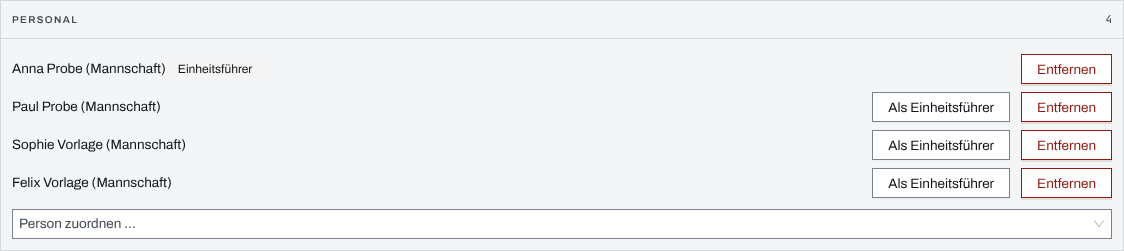
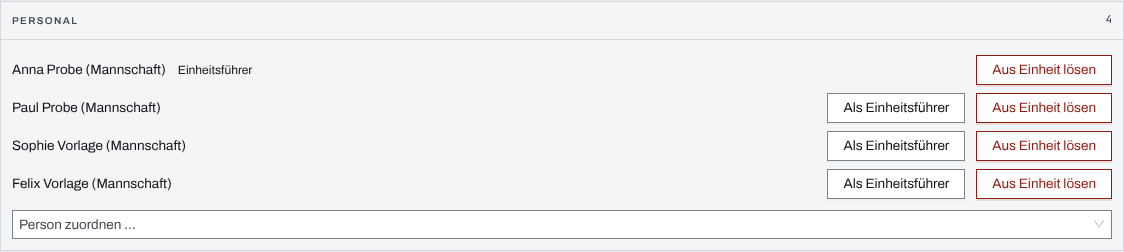
docs(anwender): Kapitel Einheiten für die Einheit-Ansicht
Neue Abläufe „Angaben einer Einheit ändern“ und „Das taktische Zeichen setzen“, „Eine Einheit
auflösen“ über das letzte Paneel, „Aus Einheit lösen“ statt „Entfernen“. Hintergrund zu
Einheitsführer und Stärke-Position, jeder Angabe für sich und dem Zeichen ohne Tagebuch.
Bilder kopf.png und zeichen.png neu, personal.png neu aufgenommen (hell und dunkel).

Zunder: https://zunder.rubeen.dev/#/aufgabe/t2q79fbg77fpngy8rwngsek6

Claude-Session: https://claude.ai/code/session_01DDFgqKuDE2TAXVLAHHoUGt

diff --git a/frontend/e2e/doku-bilder/einheiten.bilder.ts b/frontend/e2e/doku-bilder/einheiten.bilder.ts
@@ -23,6 +23,10 @@ import {
  *   vorlage-bilden.png  frontend/src/pages/EinheitAusVorlagePage.tsx (Seite „Einheit aus Vorlage
  *                       bilden“: Kopf, Baum der Vorlage, Aktion mit Zusammenfassung;
  *                       frontend/src/components/Erfassung.tsx)
+ *   kopf.png            frontend/src/pages/einheit/EinheitKopf.tsx (Paneel „Kopfdaten“,
+ *                       frontend/src/kraefte/EinheitZeichen.tsx, components/InlineAngabe.tsx)
+ *   zeichen.png         frontend/src/pages/einheit/EinheitZeichenPaneel.tsx (Paneel „Taktisches
+ *                       Zeichen“ mit offener Zeile „Organisation“)
  *   personal.png        frontend/src/pages/EinheitDetailPage.tsx (Paneel „Personal“)
  *   aufgeloest.png      frontend/src/kraefte/EntlassenBlock.tsx (Block unter der Gliederung)
  *
@@ -145,6 +149,37 @@ test.describe(KAPITEL, () => {
     const paneel = page.getByRole('region', { name: 'Personal' });
     await expect(paneel.getByText('Einheitsführer', { exact: true })).toBeVisible();
     await fotografiere(paneel, KAPITEL, 'personal');
+  });
+
+  test('Kopf einer Einheit', async ({ page }) => {
+    await anmelden(page);
+    const demo = await demoEinsatz(page);
+    const rettung = await einheitNamens(page.request, demo.id, 'Rettungsstaffel');
+    await uhrAnhalten(page);
+    await page.goto(`/einsaetze/${demo.id}/einheiten/${rettung.id}`);
+    const paneel = page.getByRole('region', { name: 'Kopfdaten' });
+    await expect(
+      paneel.getByRole('button', { name: 'Einheitsführer bearbeiten' }),
+    ).toHaveAccessibleDescription('Anna Probe');
+    await page.mouse.move(0, 0);
+    await fotografiere(paneel, KAPITEL, 'kopf');
+  });
+
+  // Die Zeile bleibt offen und wird nicht gespeichert: ein gespeichertes Zeichen änderte das Bild
+  // der Gliederung.
+  test('Taktisches Zeichen setzen', async ({ page }) => {
+    await anmelden(page);
+    const demo = await demoEinsatz(page);
+    const rettung = await einheitNamens(page.request, demo.id, 'Rettungsstaffel');
+    await uhrAnhalten(page);
+    await page.goto(`/einsaetze/${demo.id}/einheiten/${rettung.id}`);
+    const paneel = page.getByRole('region', { name: 'Taktisches Zeichen' });
+    await paneel.getByRole('button', { name: /^Organisation (bearbeiten|eintragen)$/ }).click();
+    const auswahl = paneel.getByRole('combobox', { name: 'Organisation' });
+    await waehleIn(auswahl, 'Feuerwehr');
+    await auswahl.blur();
+    await page.mouse.move(0, 0);
+    await fotografiere(paneel, KAPITEL, 'zeichen');
   });
 
   test('Block „Aufgelöst“', async ({ page }) => {

diff --git a/docs/anwender/kapitel/einheiten.md b/docs/anwender/kapitel/einheiten.md
@@ -2,7 +2,7 @@
 titel: Einheiten
 gruppen: [fuehrung]
 reihenfolge: 310
-quellen: [frontend/src/pages/EinheitenPage.tsx, frontend/src/pages/EinheitAusVorlagePage.tsx, frontend/src/einheit/ausVorlageKern.ts, frontend/src/pages/KraefteuebersichtPage.tsx, frontend/src/kraefte/einheitenGliederung.ts, frontend/src/kraefte/kraeftebaumKern.ts, frontend/src/pages/EinheitDetailPage.tsx, frontend/src/kraefte/EntlassenBlock.tsx, frontend/src/kraefte/KraftZeitachse.tsx, frontend/src/einsatz/schreibrecht.ts, src/routes/einsatz_einheit.rs, src/einheit/mod.rs, src/einheit/repo.rs, src/einheit/mitglied_repo.rs, src/einheit/aus_vorlage.rs]
+quellen: [frontend/src/pages/EinheitenPage.tsx, frontend/src/pages/EinheitAusVorlagePage.tsx, frontend/src/einheit/ausVorlageKern.ts, frontend/src/pages/KraefteuebersichtPage.tsx, frontend/src/kraefte/einheitenGliederung.ts, frontend/src/kraefte/kraeftebaumKern.ts, frontend/src/pages/EinheitDetailPage.tsx, frontend/src/pages/einheit/, frontend/src/kraefte/EntlassenBlock.tsx, frontend/src/kraefte/KraftZeitachse.tsx, frontend/src/einsatz/schreibrecht.ts, src/routes/einsatz_einheit.rs, src/einheit/mod.rs, src/einheit/repo.rs, src/einheit/mitglied_repo.rs, src/einheit/aus_vorlage.rs]
 ---
 
 ## Überblick
@@ -12,10 +12,12 @@ eine Staffel oder einen Trupp. Einheiten lassen sich einander unterstellen und e
 Einsatzabschnitt zuordnen. Ihre Ist-Stärke ergibt sich aus dem zugeordneten Personal, die
 Soll-Stärke trägt die Führung ein.
 
-Das Modul zeigt die Gliederung aller Einheiten; jede Einheit hat eine eigene Seite mit Kopfdaten,
-Zeitachse und den Paneelen „Personal“, „Fahrzeuge“ und „Material“. Eine stehende Einheit wie ein
-Sanitätszug lässt sich in einem Zug aus ihrer Einheiten-Vorlage bilden, samt Untereinheiten,
-Fahrzeugen und Besatzung. Bilden, ändern und zuordnen dürfen Einsatzleitung und Führungspersonal.
+Das Modul zeigt die Gliederung aller Einheiten; jede Einheit hat eine eigene Seite mit den
+Paneelen „Kopfdaten“, „Personal“, „Fahrzeuge“, „Zeitachse“, „Material“, „Funk und
+Kommunikation“ und „Taktisches Zeichen“, zuletzt „Einheit auflösen“. Jede Angabe wird an ihrem
+Wert geändert. Eine stehende Einheit wie ein Sanitätszug lässt sich in einem Zug aus ihrer
+Einheiten-Vorlage bilden, samt Untereinheiten, Fahrzeugen und Besatzung. Bilden, ändern und
+zuordnen dürfen Einsatzleitung und Führungspersonal.
 
 ## Abläufe
 
@@ -62,17 +64,40 @@ Für Einsatzleitung und Führungspersonal:
    3 Fahrzeuge, 2 Kräfte“. Die App öffnet das Meldebild mit der neuen Einheit markiert, ihre
    Untereinheiten und Fahrzeuge aufgeklappt.
 
-### Die Kopfdaten einer Einheit pflegen
+### Angaben einer Einheit ändern
 
 Für Einsatzleitung und Führungspersonal:
 
 1. Die Einheit öffnen.
-2. Im Paneel „Kopfdaten“ „Name“, „Typ“, „Abschnitt“ und „Über-Einheit“ setzen.
-3. Unter „Soll-Stärke (F/UF/M)“ Führer, Unterführer und Mannschaft eintragen. Daneben stehen die
-   Ist-Stärke und die kumulierte Ist-Stärke samt unterstellter Einheiten.
-4. Unter „Funk / Kommunikation“ bei Bedarf „Funkrufname“, „Sprechgruppen“, „Kommunikationsmittel“,
-   „Erreichbarkeit / Nummer“ und „Bemerkung“ eintragen.
-5. „Speichern“ wählen.
+2. Im Paneel „Kopfdaten“ den Wert der Angabe wählen, etwa „Name“. Eine leere Angabe steht als
+   Aufforderung da, etwa „Funkrufname eintragen“.
+
+   ![Paneel „Kopfdaten“ der Rettungsstaffel mit großem taktischem Zeichen, Name, Typ, Über-Einheit „Sanitätszug Musterstadt“, Einheitsführerin Anna Probe, Soll- und Ist-Stärke und Status](../bilder/einheiten/kopf.png)
+
+3. Den neuen Wert eingeben oder wählen und mit „Speichern“ oder Enter übernehmen. „Abbrechen“
+   oder Escape lässt den alten Wert stehen. In „Bemerkung“ bricht Enter die Zeile um; übernommen
+   wird mit Strg+Enter oder „Speichern“.
+4. Unter „Soll-Stärke (F/UF/M)“ Führer, Unterführer und Mannschaft zusammen eintragen. Unter „Ist
+   (F/UF/M//Σ)“ steht die Ist-Stärke, mit unterstellten Einheiten auch die kumulierte, und
+   daneben „unterbesetzt“ oder „Soll erfüllt“.
+5. Hat die Einheit kein Fahrzeug, unter „Status“ den Status wählen; „kein Status“ nimmt ihn
+   zurück.
+6. Im Paneel „Funk und Kommunikation“ ebenso „Sprechgruppen“, „Kommunikationsmittel“ und
+   „Erreichbarkeit / Nummer“ ändern.
+
+### Das taktische Zeichen setzen
+
+Für Einsatzleitung und Führungspersonal:
+
+1. Die Einheit öffnen.
+2. Im Paneel „Taktisches Zeichen“ „Fachaufgabe eintragen“ oder „Organisation eintragen“ wählen
+   (bei gesetztem Wert den Wert).
+3. Einen Eintrag wählen. Das kleine Zeichen neben der Auswahl zeigt das Zeichen mit der Wahl.
+
+   ![Paneel „Taktisches Zeichen“ mit geöffneter Zeile „Organisation“, gewähltem Eintrag und dem Zeichen daneben](../bilder/einheiten/zeichen.png)
+
+4. „Speichern“ wählen. Das große Zeichen im Kopf, das Meldebild und die Lagekarte zeigen das
+   neue Zeichen.
 
 ### Personal, Fahrzeuge und Material zuordnen
 
@@ -87,15 +112,15 @@ Für Einsatzleitung und Führungspersonal:
 3. Mit „Als Einheitsführer“ eine Person der Einheit als Einheitsführer setzen.
 4. Ebenso in „Fahrzeuge“ unter „Fahrzeug zuordnen …“ und in „Material“ unter „Material zuordnen …“
    wählen.
-5. Mit „Entfernen“ eine Person, ein Fahrzeug oder Material wieder aus der Einheit lösen. Es bleibt
-   im Einsatz, nur ohne Einheit.
+5. Mit „Aus Einheit lösen“ eine Person, ein Fahrzeug oder Material wieder aus der Einheit lösen.
+   Es bleibt im Einsatz, nur ohne Einheit.
 
 ### Eine Einheit auflösen
 
 Für Einsatzleitung und Führungspersonal:
 
 1. Die Einheit öffnen.
-2. Im Paneel „Kopfdaten“ „Auflösen“ wählen.
+2. Im letzten Paneel „Einheit auflösen“ „Einheit auflösen“ wählen.
 3. Die Rückfrage „Einheit auflösen?“ mit „Einheit auflösen“ bestätigen. Die Mitglieder werden frei,
    unterstellte Einheiten rücken eine Ebene hoch.
 4. Auf der Seite „Einheiten“ steht die aufgelöste Einheit unter der Gliederung im Block
@@ -116,9 +141,9 @@ den Modulen [Personal](personal.md), [Fahrzeuge und FMS](fahrzeuge.md) und [Mate
 
 Die Ist-Stärke zählt das zugeordnete Personal nach seiner Stärke-Position (Führer, Unterführer,
 Mannschaft), die im Modul Personal gesetzt wird. Einheitsführer ist ein eigenes Merkmal: eine Person
-mit der Position „Führer“ ist dadurch noch nicht Einheitsführer, die Seite weist darauf hin. Je
-Einheit gibt es einen Einheitsführer. Die kumulierte Ist-Stärke rechnet alle unterstellten Einheiten
-mit ein.
+mit der Position „Führer“ ist dadurch noch nicht Einheitsführer. Je Einheit gibt es einen
+Einheitsführer, eine Person der Einheit; solange keiner gesetzt ist, steht im Kopf „Einheitsführer
+eintragen“. Die kumulierte Ist-Stärke rechnet alle unterstellten Einheiten mit ein.
 
 In der Gliederung steht unter „Ist“ die kumulierte Ist-Stärke: ein Zug zählt seine Gruppen mit,
 jede Gruppe zeigt ihre eigene. Fehlt in einer Position (Führer, Unterführer oder Mannschaft) jemand
@@ -137,9 +162,23 @@ Meldebild.
 
 ### Status und Zeitachse
 
-Der Status einer Einheit folgt ihren Fahrzeugen; ohne Fahrzeug wird er im Meldebild von Hand
-gesetzt. Das Paneel „Zeitachse“ zeigt Einsatzdauer und Ereignisse der Einheit (Kapitel [Meldebild
+Der Status einer Einheit folgt ihren Fahrzeugen; ohne Fahrzeug wird er von Hand gesetzt, im
+Meldebild oder auf der Seite der Einheit. Das Paneel „Zeitachse“ zeigt Einsatzdauer und Ereignisse der Einheit (Kapitel [Meldebild
 und Kräfte-Zeitachse](meldebild.md)).
+
+### Jede Angabe für sich
+
+Jede Angabe wird für sich gespeichert. Was ein anderer Arbeitsplatz oder die Fernmeldeskizze
+inzwischen an einer anderen Angabe derselben Einheit geändert hat, bleibt erhalten; nur die
+geänderte Angabe wird überschrieben. Ein abgelehnter Wert bleibt in der offenen Zeile stehen,
+der Grund steht darunter.
+
+### Taktisches Zeichen
+
+Das taktische Zeichen gehört zur Lage: es wird wie auf der Lagekarte gespeichert, ohne Eintrag im
+Einsatztagebuch, und verschiebt die Einheit auf der Karte nicht. Ohne eigene Organisation zeichnet
+die App die Vorgabe der Organisation; die Zeile „Organisation“ nennt sie dann („Vorgabe der
+Organisation: …“).
 
 ### Auflösen
 
@@ -155,8 +194,8 @@ Meldung, kein Dokument, kein Verteiler) wird beim Auflösen ganz gelöscht. An e
 
 Ins Einsatztagebuch schreibt die App selbst: das Bilden und Auflösen einer Einheit, eine neue
 Abschnittszuordnung, einen Wechsel des Einheitsführers und jedes Zuordnen und Lösen von Personal,
-Fahrzeugen und Material. Änderungen an Name, Typ, Unterstellung, Soll-Stärke und Funkangaben stehen
-nicht im Einsatztagebuch.
+Fahrzeugen und Material. Änderungen an Name, Typ, Unterstellung, Soll-Stärke, Funkangaben und
+taktischem Zeichen stehen nicht im Einsatztagebuch.
 
 ### Aus einer Vorlage bilden
 
@@ -199,6 +238,7 @@ Fahrzeugen, Kräften und wer woher umgehängt wurde.
 
 Lesen darf, wer das Modul Einheiten sieht. Bilden, ändern, zuordnen und auflösen dürfen
 Einsatzleitung und Führungspersonal, solange der Einsatz läuft (Kapitel [Rechte im
-Einsatz](rechte-im-einsatz.md)). Ohne Netz bleiben Gliederung und Einheiten mit dem zuletzt
-geladenen Stand lesbar; ändern lässt sich nichts, und eine Vorlage lässt sich weder ansehen noch
-bilden (Kapitel [Ohne Netz](ohne-netz.md)).
+Einsatz](rechte-im-einsatz.md)). Ohne dieses Recht zeigt die Seite einer Einheit nur die Werte,
+leere als „—“, ohne Statuswahl, ohne Lösen und ohne das Paneel „Einheit auflösen“. Ohne Netz
+bleiben Gliederung und Einheiten mit dem zuletzt geladenen Stand lesbar; ändern lässt sich nichts,
+und eine Vorlage lässt sich weder ansehen noch bilden (Kapitel [Ohne Netz](ohne-netz.md)).
